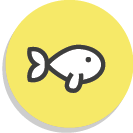
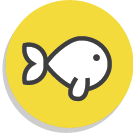
stages

diff --git a/src/client/js/IdeaOverviewPage.js b/src/client/js/IdeaOverviewPage.js
@@ -19,9 +19,6 @@ var IdeaOverviewPage = {
 };
 
 var QuestionCard = {
-    controller: function(){
-
-    },
     view: function(){
         return m("div", {class: "ui card"}, [
             m("img", {class: "ui fit", src: "static/route.png"}),
@@ -39,7 +36,7 @@ var SubmitCard = {
             Model.addIdea({
                 title: elements.title.value,
                 summary: elements.summary.value,
-                email: elements.email.value
+                email: Model.token().succes ? "" : elements.email.value
             }, function(response){
                 if(response.succes) {
                     m.route("/thanks");
@@ -47,17 +44,20 @@ var SubmitCard = {
                     console.log(response);
                 }
             });
-
-
-
             return false;
+        };
+
+        this.emailisvisible = function(){
+            return Model.token().succes;
         };
     },
     view: function(ctrl) {
         return m("form", {class: "ui card", onsubmit: ctrl.submit.bind(ctrl)}, [
             m("input", {class: "ui", name: "title", placeholder: "Geef je idee een titel..."}),
             m("textarea", {class: "ui", name: "summary", placeholder: "Omschrijf je idee..."}),
-            m("input", {class: "ui", name: "email", placeholder: "Email adres..."}),
+            (function(){
+                if(!ctrl.emailisvisible()) return m("input", {class: "ui", name: "email", placeholder: "Email adres..."});
+            })(),
             m("button", {type:"submit", class: "ui"}, "Verstuur")
         ]);
     }

diff --git a/src/server/database.js b/src/server/database.js
@@ -73,7 +73,6 @@ IdeaSchema.methods.getPublic = function(requestIp){
 var User = mongoose.model('User', UserSchema);
 var Idea = mongoose.model('Idea', IdeaSchema);
 
-
 module.exports = (function(){
 
     function addUser(user, callback){
@@ -159,19 +158,7 @@ module.exports = (function(){
                     getIdeas(vote.id, callback);
                 }
             );
-            /*
-            Idea.update(
-                {"_id": vote.id},
-                {$addToSet: {
-                    "upvotes": vote.ip
-                }},
-                {upsert: true},
-                function(err, data){
-                    if (err) return callback({succes: false});
-                    getIdeas(vote.id, callback);
-                }
-            );
-            */
+
         } else if(vote.value === -1){
             Idea.findOneAndUpdate(
                 {
@@ -190,19 +177,6 @@ module.exports = (function(){
                     getIdeas(vote.id, callback);
                 }
             );
-            /*
-            Idea.update(
-                {"_id": vote.id},
-                {$addToSet: {
-                    "downvotes": vote.ip
-                }},
-                {upsert: true},
-                function(err, data){
-                    if (err) return callback({succes: false});
-                    getIdeas(vote.id, callback);
-                }
-            );
-            */
         } else {
             return callback({succes: false});
         }

diff --git a/src/server/routes.js b/src/server/routes.js
@@ -10,7 +10,6 @@ var fs = require("fs");
 var emailValidator = require("email-validator");
 
 module.exports = (function(){
-
     function login(req, res){
         //validate
         if(!req.body) return res.json({succes: false, message: "empty post"});
@@ -83,8 +82,8 @@ module.exports = (function(){
         if(!req.body) return res.json({succes: false, message: "empty post"});
         var post = req.body;
 
-        if(!post.title) return res.json({succes: false, message: "no title"});
-        if(!post.summary) return res.json({succes: false, message: "no summary"});
+        if(!post.title)     return res.json({succes: false, message: "no title"});
+        if(!post.summary)   return res.json({succes: false, message: "no summary"});
 
         //authenticate
         authenticate.verify(req, function(auth){
@@ -101,8 +100,8 @@ module.exports = (function(){
             }
 
             if(!auth.succes) {//create a new user
-                if(!post.email)   return res.json({succes: false, message: "no email"});
-                if(!emailValidator.validate(post.email))   return res.json({succes: false, message: "invalid email"});
+                if(!post.email)                             return res.json({succes: false, message: "no email"});
+                if(!emailValidator.validate(post.email))    return res.json({succes: false, message: "invalid email"});
 
                 var secret = uuid.v4(); //generate a secret
 

diff --git a/src/client/js/ConfirmPage.js b/src/client/js/ConfirmPage.js
@@ -8,6 +8,7 @@ var ConfirmPage = {
             var elements = e.target.elements;
 
             Model.confirmUser({
+                email: elements.email.value,
                 name: elements.name.value,
                 password: elements.password.value
             });
@@ -22,6 +23,8 @@ var ConfirmPage = {
                     m("div", {class: "ui col-6 center"}, [
                         m("div", {class: "ui card"}, [
                             m("form", {class: "ui", onsubmit: ctrl.submit.bind(ctrl)}, [
+                                m("label", {class: "ui"}, "Email"),
+                                m("input", {class: "ui", name: "email", placeholder: ""}),
                                 m("label", {class: "ui"}, "Gebruikersnaam"),
                                 m("input", {class: "ui", name: "name", placeholder: ""}),
                                 m("label", {class: "ui"}, "Wachtwoord"),

diff --git a/src/client/js/ExplainPage.js b/src/client/js/ExplainPage.js
@@ -37,9 +37,9 @@ var ExplainPage = {
                                     ])
                                 ]),
                                 m("div",{class:"stage"},[
-                                    m("img", {class: "img", src: "static/stage4_hi.png"}),
+                                    m("img", {class: "img king", src: "static/stage4_hi.png"}),
                                     m("div", {class: "explain"},[
-                                        m("h2", "De grote vette vis"),
+                                        m("h2", "De kei grote vis"),
                                         m("p", "Jouw idee staat in de top 5! Er is zo veel op gestemd dat jouw idee tot één van de vijf beste ideeën hoort.")
                                     ])
                                 ]),

diff --git a/src/client/js/Models.js b/src/client/js/Models.js
@@ -89,7 +89,8 @@ var Model = (function(){
         m.request({
             method: "POST",
             url: "/api/idea",
-            data: data
+            data: data,
+            config: xhrConfig
         }).then(callback);
     }
 
@@ -130,7 +131,9 @@ var Model = (function(){
             data: user,
         }).then(function(answer){
             if(answer.succes){
-                m.route("/ideas");
+                login(user, function(){
+                    m.route("/ideas");
+                });
             } else {
                 m.route("/error");
             }

diff --git a/src/client/js/LoginPopup.js b/src/client/js/LoginPopup.js
@@ -32,6 +32,7 @@ var LoginPopup = {
                     m("h2", "Login"),
                     m("input", {class: "ui", name: "email", placeholder: "Email adres",}),
                     m("input", {class: "ui", name: "password", type: "password", placeholder: "wachtwoord",}),
+                    m("p", {class: "ui left register"}, "Ik heb nog geen account"),
                     m("button", {type:"submit", class: "ui"}, "login"),
                 ])
             ]);

diff --git a/src/client/style/theme/components/menu.less b/src/client/style/theme/components/menu.less
@@ -19,6 +19,14 @@
     display: none;
 }
 
+.ui .popup .register {
+    margin-top: 20px;
+    font-size: 14px;
+    color: #555555;
+    text-decoration: underline;
+    cursor: pointer;
+}
+
 @media only screen and (max-width: 500px) {
     .ui.menuelement.option, .ui.menuelement.right  {
         width: 100%;

diff --git a/src/client/style/theme/components/explainpage.less b/src/client/style/theme/components/explainpage.less
@@ -1,7 +1,6 @@
 .stages .stage {
     height: 200px;
     clear: both;
-    overflow: hidden;
 }
 
 .stages .stage .img {
@@ -13,7 +12,7 @@
 .stages .stage .img.king {
     float: left;
     margin-left: -35px;
-    margin-top:-30px;
+    margin-top:-50px;
     margin-right: -45px;
     width: 230px;
 }

diff --git a/src/client/js/DashboardPage.js b/src/client/js/DashboardPage.js
@@ -11,7 +11,7 @@ var DashboardPage = {
 
         this.logout = function(e){
             Model.logout();
-            m.route("/");
+            m.route("/ideas");
         };
     },
     view: function(ctrl) {

diff --git a/src/client/style/ui/ui.less b/src/client/style/ui/ui.less
@@ -128,7 +128,7 @@ button.ui {
     z-index: 2;
     margin: auto;
     width: 400px;
-    height: 300px;
+    height: 270px;
     top: 0;
     bottom: 0;
     left: 0;

diff --git a/src/client/style/theme/components/landingpage.less b/src/client/style/theme/components/landingpage.less
@@ -103,4 +103,8 @@ em {
     .color img, .colorless img {
         width: 100%;
     }
+
+    .title img {
+        width: auto;
+    }
 }
